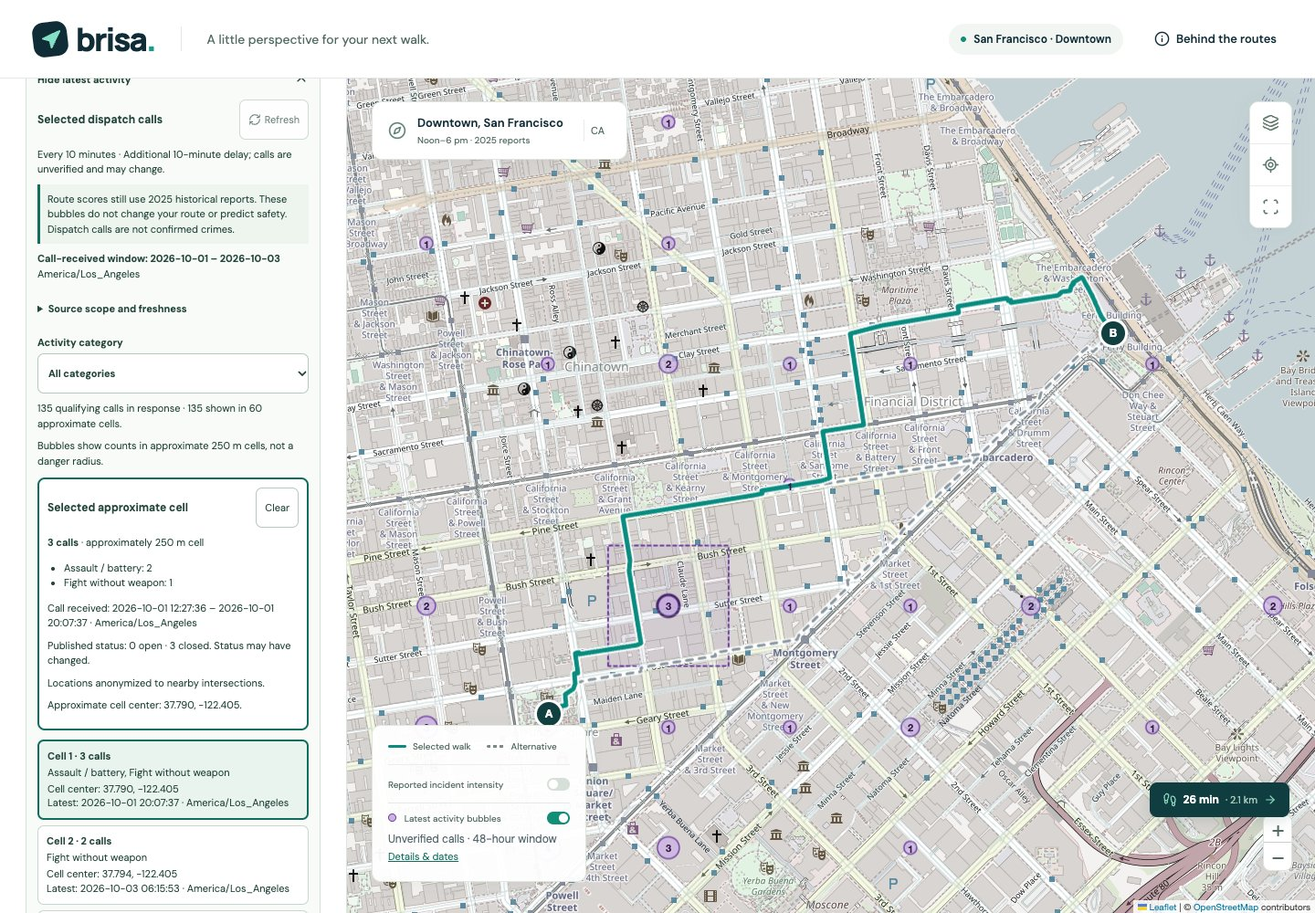
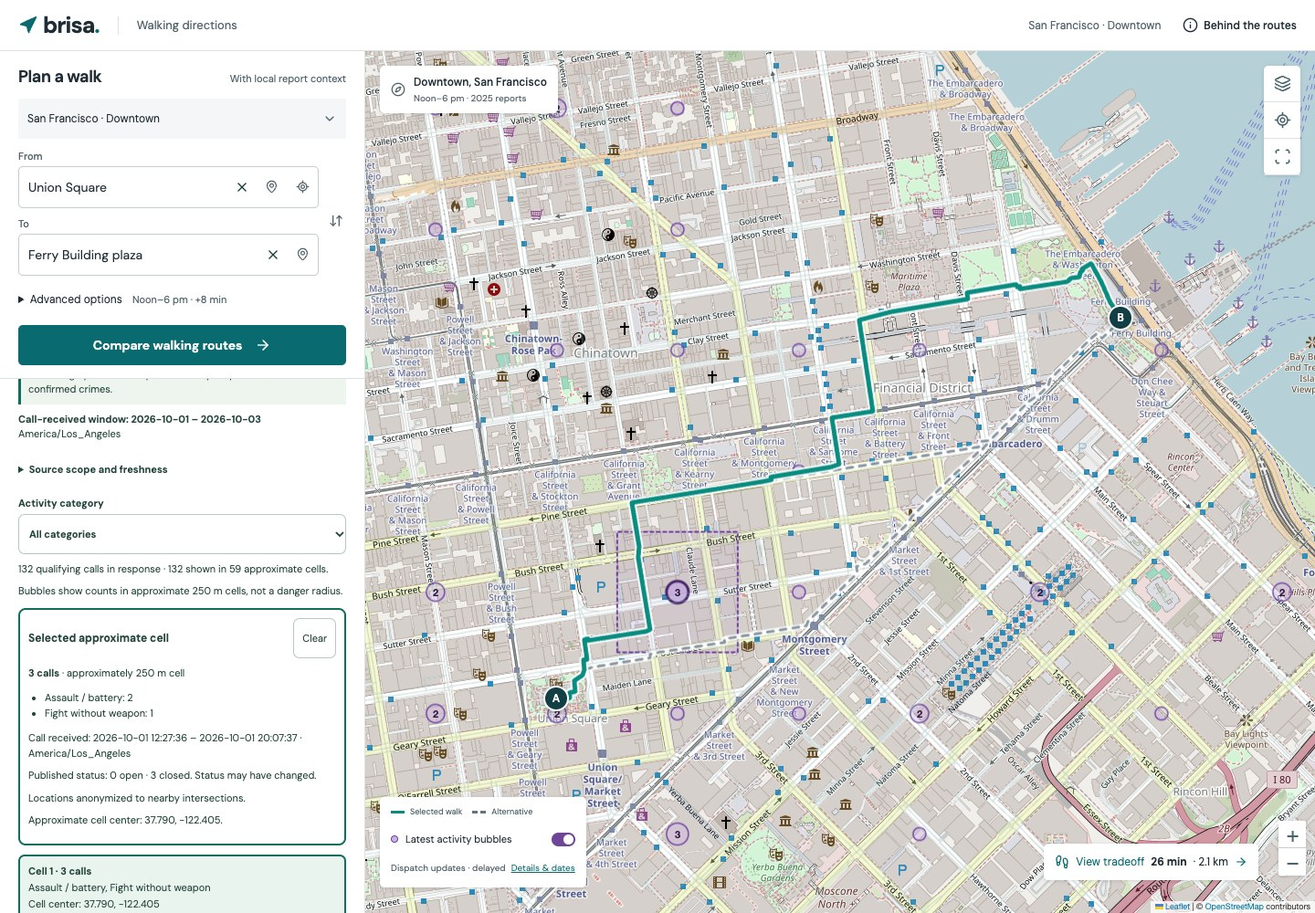
Refresh navigation council findings and hackathon demo captures

diff --git a/docs/DEMO.md b/docs/DEMO.md
@@ -7,21 +7,21 @@ npm ci
 npm run dev
 ```
 
-Open the printed local URL. NYC is the app default. For the LATAM demo, open `/?area=sao-paulo-centro`; `/?area=chicago-loop` and `/?area=sf-downtown` select the other packages. Prepare dependencies before the event. The committed graph, aggregate packages and fonts work from the local server; optional background map tiles use the network. With latest activity off (the default), the core demo makes no incident-source or Overpass requests. Enabling activity requires official-source network access.
+Open the printed local URL. NYC is the app default. For the LATAM demo, open `/?area=sao-paulo-centro`; `/?area=chicago-loop` and `/?area=sf-downtown` select the other packages. Prepare dependencies before the event. The committed graph, aggregate packages and fonts work from the local server; optional background map tiles use the network. Activity bubbles start ON and use official-source network access where a feed exists. Turn them OFF for a historical-only demo. Address autocomplete uses Photon; bundled place names and map selection remain available when it is unavailable.
 
 ## Two-minute working demo
 
-1. **0:00 — Start one real decision.** Open São Paulo and select **Try example walk** to restore Edifício Copan → Praça da Sé, noon–6 pm and an eight-minute budget. Introduce the team's LATAM motivation: comparing historical report context alongside walking time.
+1. **0:00 — Start one real decision.** Open São Paulo, expand **Advanced options** and select **Try example walk** to restore Edifício Copan → Praça da Sé, noon–6 pm and an eight-minute budget. Collapse Advanced options. Point out the editable From/To fields and introduce the team's LATAM motivation: comparing historical report context alongside walking time.
 2. **0:20 — Choose the tradeoff.** Select Fastest walk, then a distinct lower-exposure choice if available. Read the generated takeaway rather than doing mental arithmetic. The current example is about two extra minutes for a 15% lower historical report index (20.30 versus 22.53 minutes, 14.89% unrounded). Use actual displayed values after any model/data change. A distinct alternative is not promised for every request.
 3. **0:50 — Make the detour concrete.** Open **What changes from fastest?** Show the measured shared/different street sections and the named sections on each walk. Names describe where geometry differs, not why incidents occurred or whether a street is accessible, well lit or safe. Different sections can have the same street name.
 4. **1:20 — Make the choice portable.** Select **Share trip**, show the endpoint-coordinate disclosure and generated link. Explain that opening it recalculates the request; GPX preserves selected geometry. Keep copying, reopening and downloading for questions.
-5. **1:40 — State scope.** Show coverage and conclude: “São Paulo uses 2,466 eligible pedestrian cellphone theft/robbery reports with known times. Missing times introduce bias. This compares historical report indices, not personal safety or cities.” Leave the selected walk on screen.
+5. **1:40 — State scope.** Use the map’s **Show coverage boundary** control and conclude: “São Paulo uses 2,466 eligible pedestrian cellphone theft/robbery reports with known times. Missing times introduce bias. This compares historical report indices, not personal safety or cities.” Leave the selected walk on screen.
 
 ## Optional questions and demonstrations
 
-- **Does the budget matter?** Set the extra-time budget to zero and compare. Restore the example with Try example walk. Do not imply every budget returns three routes.
-- **Does time change the explanation?** Show Same walk, different windows: four historical scores for the exact selected geometry. These are not current predictions.
-- **Can I choose another street?** Use the bundled street search. It needs no external geocoder; results are limited to named sections in the loaded graph, not street addresses or entrances.
+- **Does the budget matter?** Expand **Advanced options**, set the extra-time budget to zero and compare. Restore the example with Try example walk. Do not imply every budget returns three routes.
+- **Does time change the explanation?** Expand **Route details**, then show Same walk, different windows: four historical scores for the exact selected geometry. These are not current predictions.
+- **Can I choose another street?** Type in **From** or **To**. Suggestions combine bundled street/landmark names with Photon addresses and places, bounded to the selected area. Select a result before comparing; map pins and explicit device location are alternatives. Places outside loaded coverage cannot be routed.
 - **Can I take it with me?** Open the shared link or download GPX/summary. Street sequences are planning references, not verified turn instructions.
 - **What has updated recently?** Use the separate SF segment below, with network access. It does not modify the historical routing model.
 
@@ -31,7 +31,7 @@ Actual app captures are available for the presentation: [desktop comparison](scr
 
 ## Optional 30-second activity segment
 
-After the Brazil walkthrough, switch to San Francisco and enable latest activity. Show an aggregate bubble and the source dates. Say: “These are selected, unverified police dispatch calls received during the last 48 hours. The source updates every ten minutes with an additional ten-minute delay. They do not change the historical route scores.” Do not promise a fixed count or current street conditions. If loading fails, show the explicit error/stale state and continue the historical demo; there is no fixture fallback.
+After the Brazil walkthrough, switch to San Francisco. Activity is already ON unless you turned it off; the OFF choice persists across city changes. Open **Activity details** or tap a bubble. Show an aggregate bubble and the source dates. Say: “These are selected, unverified police dispatch calls received during the last 48 hours. The source updates every ten minutes with an additional ten-minute delay; Brisa checks for newly published batches every minute while visible. They do not change the historical route scores.” Do not promise a fixed count or current street conditions. If loading fails, show the explicit error/stale state and continue the historical demo; there is no fixture fallback.
 
 ![San Francisco dispatch-call bubbles with a selected approximate cell and source context](screenshots/latest-activity.jpg)
 
@@ -59,7 +59,7 @@ São Paulo's MASP landmark is named **MASP · Paulista sidewalk**. Its reviewed 
 ## If the demo network fails
 
 - Keep the local Vite server running and reload the local app. Bundled streets and routes remain available when background tile requests fail; the app shows a map-unavailable explanation.
-- If dependencies are already installed, `npm run build` followed by `npm run preview` serves the production bundle locally. Open the URL that command prints. The historical route demo needs no incident API or Google key; leave latest activity off without network access.
+- If dependencies are already installed, `npm run build` followed by `npm run preview` serves the production bundle locally. Open the URL that command prints. The historical route demo needs no incident API or Google key; turn latest activity OFF without network access and use bundled places or map selection.
 - Do not refresh source data at the event. The committed packages are the demo inputs; ingestion is a separate operation.
 - If a package load fails, use Try again or switch coverage. Invalid shared links show a notice and fall back to default landmarks. Identical endpoints and points outside supported street coverage produce recoverable errors.
 - The app is not a service-worker offline install. A remote deployment must load its assets and selected package first; a prepared local server is the dependable network fallback.

diff --git a/README.md b/README.md
@@ -2,7 +2,9 @@
 
 A BigRedHacks navigation project: compare walking routes using historical reported incidents and an explicit limit on added walking time. Inspired by our LATAM team's experiences, Brisa uses a shared routing engine with independently validated city data packages.
 
-![São Paulo walking route comparison: fastest, balanced and lower historical exposure choices](docs/screenshots/sao-paulo-desktop.jpg)
+![Brisa directions with searchable endpoints, walking alternatives and published activity bubbles](docs/screenshots/navigation-desktop.jpg)
+
+[See the mobile layout](docs/screenshots/navigation-mobile.jpg).
 
 **Included coverage:** four bounded packages. Coverage is regional; a city label does not imply every neighborhood is supported.
 
@@ -54,13 +56,15 @@ Available public data still needs a usable occurrence time, location, incident d
 
 ## What the planner does
 
-- Selects a city/coverage package, landmarks or map endpoints, a local historical time window, and an extra-time budget.
-- Searches bundled street/landmark names, supports keyboard map-center selection, and restores a ready-to-compare trip with **Try example walk**.
+- Starts with searchable **From** and **To** fields for addresses, places and streets inside the selected coverage area. Map selection and explicit **Use my location** are also available.
+- Combines bundled local search with bounded Photon address results. Arbitrary locations still need to be inside the loaded walking graph; this is not global routing.
+- Keeps historical time windows, detour budget, example reset and coverage/source information in **Advanced options**.
+- Presents controls, map and route choices in that order on mobile, with keyboard-accessible search and map selection.
 - Computes routes along real OpenStreetMap walking geometry and integrates the report index along each displayed path.
 - Shows distinct fastest/lower-index candidates that satisfy the exact budget, with time and distance alongside exposure comparisons.
 - Summarizes the selected route's tradeoff and explains which actual street sections differ from the fastest route.
 - Displays aggregate report context, package-specific dates, timezone, eligibility, sources and route explanations.
-- Offers an optional latest-activity bubble layer: unverified SF dispatch calls and delayed published NYC/Chicago reports, with source windows and freshness visible. It does not change historical route scores; São Paulo has no verified recent feed.
+- Shows a default-on, automatically refreshed activity bubble layer with an OFF option: unverified SF dispatch calls and delayed published NYC/Chicago reports, with source windows and freshness visible. It does not change historical route scores; São Paulo has no verified recent feed.
 - Shows contiguous street segments and four historical-window scores for the exact selected path.
 - Shares a reproducible request only after an explicit action. Links disclose both endpoint coordinates and recalculate on open; they do not guarantee permanently identical routes. Ordinary control changes do not write coordinates into the address bar.
 - Exports the selected geometry as GPX or its street sequence as text, with historical model/source context. These are planning references, not verified navigation instructions.
@@ -91,6 +95,8 @@ flowchart LR
 | Demo walkthrough | [docs/DEMO.md](docs/DEMO.md) | Two-minute demo and local fallback |
 | Pitch kit | [docs/PITCH.md](docs/PITCH.md) | Spoken pitch and factual submission draft |
 | Manual deployment | [docs/DEPLOY.md](docs/DEPLOY.md) | Publication instructions; not a claim of a live deployment |
+| Address search | [docs/PLACE_SEARCH.md](docs/PLACE_SEARCH.md) | Bounded geocoding, local fallback, provider configuration and query disclosure |
+| Navigation refinement | [docs/NAVIGATION_REFINEMENT.md](docs/NAVIGATION_REFINEMENT.md) | User-perspective reviews and the simpler mobile/desktop flow |
 | Latest activity | [docs/LIVE_ACTIVITY.md](docs/LIVE_ACTIVITY.md), [docs/RECENT_SOURCES.md](docs/RECENT_SOURCES.md) | Optional feeds, delays, bubble semantics and failure behavior |
 | Source methodology | [docs/DATA.md](docs/DATA.md) | Exact queries, filters, provenance and limitations |
 | City onboarding | [docs/ADDING_CITIES.md](docs/ADDING_CITIES.md) | Add a supported public API/CSV package |
@@ -106,11 +112,11 @@ A new city is a new data package, not a new application. Larger regional coverag
 
 ## Refresh and deployment
 
-With latest activity off (the default), committed packages make route demos independent of incident-source and Overpass APIs. Enabling latest activity requires network access to official feeds; failures never substitute fixture data. Historical-package refresh is an explicit build-time operation. Cache identities include source/query/configuration; failed downloads preserve the last valid cache. Historical raw case records stay in ignored local caches and are never served by the app. The optional activity layer fetches minimal official records transiently in the browser and displays aggregate bubbles.
+Committed packages make historical routing independent of incident-source and Overpass APIs. Latest activity starts ON and requires official-feed network access; switch it OFF for a network-independent historical demo. Address search contacts Photon while typing, with local places and map selection available as fallbacks. Feed failures never substitute fixture data. Historical-package refresh is an explicit build-time operation. Cache identities include source/query/configuration; failed downloads preserve the last valid cache. Historical raw case records stay in ignored local caches and are never served by the app. The optional activity layer fetches minimal official records transiently in the browser and displays aggregate bubbles.
 
 After changing data, run Python validation, `npm test`, and `npm run build`. Deploy the resulting `dist/` as one release so the catalog and its data packages stay consistent. Root hosting is the default; [GitHub Pages instructions](docs/DEPLOY.md) cover project paths through `BASE_PATH`. GitHub Actions checks packages, algorithms, workers, production build and browser flows, including automated accessibility checks.
 
-All `VITE_` values are public browser configuration. `.env.example` documents the optional tile URL; never put private credentials there. Follow the selected tile provider's attribution and usage rules. There is no bulk tile downloader or service worker.
+All `VITE_` values are public browser configuration. `.env.example` documents optional tile and Photon-compatible geocoder URLs; never put private credentials there. Follow the selected tile provider's attribution and usage rules. There is no bulk tile downloader or service worker.
 
 ## Attribution
 

diff --git a/docs/DEPLOY.md b/docs/DEPLOY.md
@@ -14,7 +14,7 @@ BASE_PATH=/BigRedHacks/ npm run build
 BASE_PATH=/BigRedHacks/ npm run preview -- --port 4173
 ```
 
-Open `http://127.0.0.1:4173/BigRedHacks/`. Confirm all four cities load, a route comparison completes through the worker, the brand/home link stays within `/BigRedHacks/`, and shared links reload the selected trip under that path. Check the favicon and browser network panel: scripts, worker, catalog and city datasets should have no 404s. Exercise downloads and the mobile layout. Enable latest activity in SF, NYC and Chicago: verify official API requests pass CORS, bubbles load, and source dates/window labels remain visible. São Paulo should explain that no verified recent feed is available. Disable networking to confirm an explicit unavailable/stale state without fixture substitution; historical routing should remain separate. The existing end-to-end suite uses the default root development server; subpath production validation is a separate check.
+Open `http://127.0.0.1:4173/BigRedHacks/`. Confirm all four cities load, a route comparison completes through the worker, the brand/home link stays within `/BigRedHacks/`, and shared links reload the selected trip under that path. Check the favicon and browser network panel: scripts, worker, catalog and city datasets should have no 404s. Exercise downloads and the mobile layout. Check default-on latest activity in SF, NYC and Chicago: verify official API requests pass CORS, bubbles load, and source dates/window labels remain visible. São Paulo should explain that no verified recent feed is available. Disable networking to confirm an explicit unavailable/stale state without fixture substitution; historical routing should remain separate. The existing end-to-end suite uses the default root development server; subpath production validation is a separate check.
 
 `BASE_PATH` is read by `vite.config.ts` at build/preview startup. Its default is `/`, preserving ordinary root hosting. Use a leading and trailing slash for a subdirectory, such as `/BigRedHacks/`. Vite rewrites bundled assets and worker URLs; runtime data loaders prepend Vite's `import.meta.env.BASE_URL` to the validated catalog/package paths. The packaged catalog stays host-independent. Rebuild with the appropriate base when moving to another host. Run `npm run build` without `BASE_PATH` to restore a root-hosted local build.
 
@@ -31,7 +31,7 @@ After publication is authorized and local/CI checks pass:
 1. Commit and push the reviewed source, aggregate packages and workflow together.
 2. Open **Actions → Publish Brisa to GitHub Pages → Run workflow** and select the approved branch.
 3. The build job installs locked dependencies, runs TypeScript/unit and offline data tests, derives the base path from the configured Pages site, builds the complete `dist/` directory, then runs the desktop/mobile browser suite before uploading it as one Pages artifact.
-4. The deployment job publishes that artifact. Open the actual URL reported by its `github-pages` environment, and repeat the city-switch, route, worker and shared-link checks on HTTPS. Enable latest activity and verify official-feed CORS and visible source freshness on the deployed origin.
+4. The deployment job publishes that artifact. Open the actual URL reported by its `github-pages` environment, and repeat the city-switch, route, worker and shared-link checks on HTTPS. Verify the default-on activity layer, official-feed CORS and visible source freshness on the deployed origin.
 
 The workflow uses current official actions: [checkout](https://github.com/actions/checkout), [setup-node](https://github.com/actions/setup-node), [configure-pages](https://github.com/actions/configure-pages/releases/tag/v6.0.0), [upload-pages-artifact](https://github.com/actions/upload-pages-artifact/releases/tag/v5.0.0), and [deploy-pages](https://github.com/actions/deploy-pages/releases/tag/v5.0.1). It has no automatic deployment trigger. A failed build never reaches the deploy job; concurrent deployments are serialized.
 
@@ -39,6 +39,6 @@ All code, catalog and city packages ship together. Do not update a deployed cata
 
 ## Operational notes
 
-GitHub Pages serves static files; planning runs in the browser's worker. Latest activity is off by default and requires official-feed network access when enabled. SF dispatch updates every ten minutes with an additional ten-minute delay over a 48-hour window; NYC is quarterly and Chicago daily with at least seven days of omitted recent incidents. NYC/Chicago display explicit latest-published 30-day windows. These bubbles do not change historical route scores. See [LIVE_ACTIVITY.md](LIVE_ACTIVITY.md) and [RECENT_SOURCES.md](RECENT_SOURCES.md). External map tiles still require network access and obey the configured provider's availability and terms. If tiles fail, bundled streets and route geometry remain available. A fresh visit still needs to download the app and selected package, so this is not an offline-installable application.
+GitHub Pages serves static files; planning runs in the browser's worker. Latest activity starts ON and requires official-feed network access; users can switch it OFF. Brisa checks SF every minute, Chicago hourly and NYC every six hours while visible. Typed address searches use the configured Photon-compatible endpoint (the public Photon demo by default); local place search works without it. SF dispatch updates every ten minutes with an additional ten-minute delay over a 48-hour window; NYC is quarterly and Chicago daily with at least seven days of omitted recent incidents. NYC/Chicago display explicit latest-published 30-day windows. These bubbles do not change historical route scores. See [LIVE_ACTIVITY.md](LIVE_ACTIVITY.md) and [RECENT_SOURCES.md](RECENT_SOURCES.md). External map tiles still require network access and obey the configured provider's availability and terms. If tiles fail, bundled streets and route geometry remain available. A fresh visit still needs to download the app and selected package, so this is not an offline-installable application.
 
 If Pages reports a missing site, complete the one-time settings step first. If deployment is rejected, inspect the environment's branch/protection rules. If assets request `/assets/` or `/data/` instead of `/BigRedHacks/...`, rebuild with the correct base; do not patch generated output manually. To roll back, manually run this workflow on a reviewed branch containing the previously validated source and matching datasets, subject to the same environment rules.

diff --git a/docs/LIVE_ACTIVITY.md b/docs/LIVE_ACTIVITY.md
@@ -4,13 +4,13 @@ The app's historical route model and its latest-activity overlay answer differen
 
 ## Council and adversarial review
 
-The source researcher verified official metadata and bounded API responses. The implementation reviewer evaluated public API access, cancellation, limits and static hosting. The user-side reviewer challenged misleading locations, freshness, accessibility and route implications. Their shared recommendation is an opt-in, source-specific layer with fixed-area bubbles and explicit dates.
+The source researcher verified official metadata and bounded API responses. The implementation reviewer evaluated public API access, cancellation, limits and static hosting. The user-side reviewer challenged misleading locations, freshness, accessibility and route implications. Following the requested default-on behavior, the layer is enabled on arrival with an explicit OFF control. The OFF preference persists across city switches for the session. The design uses a source-specific layer with fixed-area bubbles and explicit dates.
 
 | Option | Benefit | Problem | Decision |
 | --- | --- | --- | --- |
 | Individual incident pins | Easy to inspect | Publisher locations are approximate; pins imply exact events and can overexpose locations | Do not use |
 | Screen-space clusters | Reduces clutter | Group geography and counts change with zoom | Possible later at larger scale |
-| Fixed 250 m aggregate bubbles | Stable geography, visible counts, matches existing grid | Nearby circles can overlap | Use counts, bounded square-root radius, selected cell outline and accessible list |
+| Fixed 250 m aggregate bubbles | Stable geography, visible counts, matches existing grid | Nearby circles can overlap | Use counts, bounded square-root radius capped to 42% of the cell’s pixel span (3 px minimum), selected cell outline and accessible list |
 | Time-fading circles | Visually emphasizes recency | Fading can imply that danger has passed | Defer; show actual dates |
 | Recent events directly reweight routes | Appealing immediate response | Calls are unverified; source delays and units differ; no calibrated model | Defer until evaluated |
 
@@ -29,6 +29,8 @@ Bubble count is a count of qualifying source records/calls, not victims, severit
 
 Three clocks remain distinct: event occurrence or call receipt in the source's timezone; publisher update time when available; and the app's last successful check. Failed refreshes preserve the last successful data with a visible error. An unavailable or invalid response must not become a zero-count success.
 
-The prototype makes bounded anonymous requests directly to allowlisted official APIs after the user enables the layer. It uses no location tracking, private API keys or persistent report storage. Minimal source fields are normalized in memory, then aggregated; addresses, people and dispatch free-text notes are not requested. Requests use the coverage boundary, never trip endpoints. Disabling the layer or switching cities cancels pending requests. Refreshing pauses when the page is hidden; rapid manual requests are throttled.
+The prototype makes bounded anonymous requests directly to allowlisted official APIs while the default-on layer is enabled and the page is visible. It uses no location tracking, private API keys or persistent report storage. Minimal source fields are normalized in memory, then aggregated; addresses, people and dispatch free-text notes are not requested. Requests use the coverage boundary, never trip endpoints. Disabling the layer or switching cities cancels pending requests. Hidden pages cancel in-flight requests and pause automatic checks. Returning to a visible page resumes deferred or overdue checks. SF checks for publications every minute, Chicago hourly, and NYC every six hours; these intervals do not remove source publication delays. Manual requests have a 30-second cooldown. Failed requests retry after one minute while visible and preserve the last good feed. No socket or instant event delivery is claimed.
 
 For larger traffic, use a scheduled service to fetch and validate each source once, publish only aggregate snapshots with freshness metadata, and let clients poll the same-origin manifest. The current contracts isolate that future transport change from the map and routing engine.
+
+Rendering updates on zoom: circle radius is capped to the represented cell’s screen size, with lighter unselected fill; numeric labels hide below a 9 px radius. The underlying 250 m cells, counts, category totals and accessible list do not change with zoom. At extreme zoom-out the 3 px minimum remains a visible interaction target; the outline and detail card disclose the actual cell.

diff --git a/docs/PITCH.md b/docs/PITCH.md
@@ -4,7 +4,7 @@
 
 **0:00–0:20 — Why.** “Our LATAM team's experiences inspired a question: what if a walking planner made local context visible alongside arrival time? Brisa compares walks using historical reported incidents and lets you decide how much extra walking time to allow.”
 
-**0:20–0:50 — Show one decision.** Open `/?area=sao-paulo-centro` and select **Try example walk**. Select a distinct lower-exposure route if available. Read its generated takeaway: the current example offers about two extra minutes for a 15% lower historical report index. “These lines follow real OpenStreetMap streets. Every displayed choice respects the extra-time budget.” Use actual returned values, not a memorized promise.
+**0:20–0:50 — Show one decision.** Open `/?area=sao-paulo-centro`, expand **Advanced options**, select **Try example walk**, then collapse the options. Select a distinct lower-exposure route if available. Read its generated takeaway: the current example offers about two extra minutes for a 15% lower historical report index. “These lines follow real OpenStreetMap streets. Every displayed choice respects the extra-time budget.” Use actual returned values, not a memorized promise.
 
 **0:50–1:20 — Show what changed.** Open **What changes from fastest?** “Here are the street sections shared by the walks, and the sections that differ. We explain the actual geometry, not an invented claim about why a street is safer.” Point to one named section and the highlighted path.
 
@@ -22,9 +22,9 @@ Our LATAM team's experiences made us interested in the local knowledge people us
 
 ### What it does
 
-Brisa compares walking routes inside bounded packages for Central Manhattan, Chicago's Loop, downtown San Francisco and São Paulo's Paulista–Centro area in Brazil. Choose endpoints, a historical local-time window and an extra-time budget. Select a route to inspect its geometry, contiguous street sequence and exposure across four windows on the same path. Explicit share links reproduce the request; GPX and text downloads preserve the selected walk and its context.
+Brisa compares walking routes inside bounded packages for Central Manhattan, Chicago's Loop, downtown San Francisco and São Paulo's Paulista–Centro area in Brazil. Type addresses, places or streets in From/To and select a suggestion; local map references and explicit device location are also available. Historical time windows and the extra-time budget live in Advanced options. Select a route to inspect its geometry, contiguous street sequence and exposure across four windows on the same path. Explicit share links reproduce the request; GPX and text downloads preserve the selected walk and its context.
 
-An optional latest-activity layer adds aggregate bubbles without changing historical route scores. SF uses selected unverified dispatch calls from the past 48 hours, refreshed by the source every ten minutes with an additional ten-minute delay. NYC and Chicago show 30-day windows ending on their latest published occurrence dates: NYC releases quarterly; Chicago updates daily and omits at least the latest seven days. São Paulo has no verified recent feed. Activity requires network access and has explicit failure states, not fixture fallback.
+A default-on activity layer with an OFF option adds automatically refreshed aggregate bubbles without changing historical route scores. SF uses selected unverified dispatch calls from the past 48 hours, refreshed by the source every ten minutes with an additional ten-minute delay. NYC and Chicago show 30-day windows ending on their latest published occurrence dates: NYC releases quarterly; Chicago updates daily and omits at least the latest seven days. São Paulo has no verified recent feed. Activity requires network access and has explicit failure states, not fixture fallback.
 
 ### How we built it
 
@@ -44,7 +44,7 @@ Audit walking access with local users; test category weights and smoothing sensi
 
 ### Built with
 
-React, TypeScript, Vite, Leaflet, Web Workers, Python, OpenStreetMap, NYC Open Data, Chicago Data Portal, DataSF, SSP-SP, Vitest and Playwright.
+React, TypeScript, Vite, Leaflet, Web Workers, Python, OpenStreetMap, NYC Open Data, Chicago Data Portal, DataSF, SSP-SP, Photon, Vitest and Playwright.
 
 ## Submission notes
 

diff --git a/docs/NAVIGATION_REFINEMENT.md b/docs/NAVIGATION_REFINEMENT.md
@@ -1,0 +1,25 @@
+# Navigation refinement: October 3
+
+Independent agents reviewed the product as an impatient phone user, a keyboard user, an everyday NYC pedestrian, a LATAM traveler and a consumer interpreting recent reports. These are simulated user perspectives and browser observations, not field research.
+
+| Concern | Implemented response |
+| --- | --- |
+| Landmark dropdowns feel like a fixed demo | Editable From/To with bounded address/place search, local suggestions, map selection and explicit device location |
+| Settings dominate the main task | Collapsed Advanced options holds time window, detour budget, example reset and coverage/source details |
+| Decorative cards and slogans obscure the directions | Compact header, flat route list, restrained colors and a direct selected-route explanation |
+| Phone users must scroll before entering a trip | Mobile document order is controls → map → routes; desktop keeps directions beside the map |
+| Dense bubbles hide streets at smaller zooms | Circles shrink with the projected 250 m cell; counts appear when there is room, with the full count available in cell details |
+| New reports should appear automatically | Activity defaults ON, with foreground polling and a session-wide OFF preference |
+| A fresh check could be mistaken for a fresh event | Separate source windows, publisher delays and successful-check timestamps remain explicit |
+
+Address suggestions are selected explicitly. Typing alone cannot become a route endpoint. The adapter and UI cancel obsolete queries, reject results outside coverage, and preserve local search when the address provider fails. Device location requires a button press; denial, unsupported coverage and late callbacks cannot silently replace a different selected place.
+
+The app still routes inside four bounded walking packages. A globally found address does not create street or incident coverage. Source definitions differ; route indices do not rank cities or predict safety. Address points and nearby graph connections are not verified entrances.
+
+Activity is automatic, not instantaneous crime confirmation. San Francisco publishes selected unverified dispatch calls every ten minutes with additional delay; Brisa checks for releases every minute while visible. Chicago is checked hourly and NYC every six hours because their report publication is slower. Hidden tabs pause work and catch up when due; errors keep the last successful feed visibly marked. São Paulo has no verified recent feed. See [source details](RECENT_SOURCES.md).
+
+The adversarial browser pass caught endpoint markers intercepting map selection, a search popup reopening on programmatic focus return, a small city-selector touch target, visually hidden table text extending the page and a coverage button implicitly submitting the form. Each was corrected and checked. Search, location permission, stale-response rejection, map selection, source updates and exports have desktop/mobile regressions; public API and tile requests are replaced by explicit fixtures in automated tests. A publication-change regression confirms a newly released SF call updates the bubble count automatically while preserving the selected historical route.
+
+Manual production checks exercised all four city packages, actual Photon address selection (Empire State Building to Grand Central), shared-link restoration and worker/asset loading under `/BigRedHacks/`. Updated [desktop](screenshots/navigation-desktop.jpg) and [mobile](screenshots/navigation-mobile.jpg) captures show actual source responses, not fixture bubbles. The automated suite contains 163 TypeScript tests, 25 data checks and 90 desktop/mobile browser cases, including accessibility checks.
+
+For larger usage, configure a suitable Photon-compatible service using [PLACE_SEARCH.md](PLACE_SEARCH.md). Shared server-side feed caching would reduce duplicate requests across viewers; faster polling cannot remove publisher delays.

diff --git a/docs/RECENT_SOURCES.md b/docs/RECENT_SOURCES.md
@@ -19,6 +19,8 @@ NYC/Chicago first query the global maximum nonfuture occurrence date, then fetch
 
 Every row is revalidated for eligibility, timestamp, bounds, ID and coordinates after the bounded server query. Future and malformed rows are excluded. Responses at the 5,000-row cap fail closed instead of displaying incomplete counts. A 25-second abort timeout and caller cancellation apply across requests. Latest available occurrence is queried separately from the requested area; it is not proof of complete coverage. checkedAt is fetch-check UTC, not publication time. Optional publisherUpdatedAt comes from a valid nonfuture official HTTP Last-Modified header, expressed in UTC; it is absent when the header is unavailable or invalid. Conflicting duplicate IDs fail the entire refresh before eligibility filtering; exact duplicates collapse. Optional report, update and closure timestamps must be valid and nonfuture. Event labels distinguish “Call received” from “Occurred.”
 
-UI owns scheduling and cached results, with no polling faster than ten minutes. A failed refresh must retain an explicit stale/error state rather than imply current or empty coverage. Never silently substitute fixture data after a source failure. Both source lag and the displayed window should remain visible.
+The layer defaults ON, with a session-wide OFF preference. UI owns scheduling and memory-only cached results. Publication checks run every 60 seconds for SF, hourly for Chicago, and every six hours for NYC while visible. SF polling detects newly published batches; the publisher still updates every ten minutes with an additional ten-minute delay, so no instantaneous event delivery is promised. Automatic scheduling checks deadlines every 30 seconds. Returning to the page immediately starts a deferred or overdue check. Hidden pages abort in-flight requests; disabled layers and city changes also cancel work. Failed checks retry after one minute while visible; manual refresh has a 30-second cooldown. A failed refresh must retain an explicit stale/error state rather than imply current or empty coverage. Never silently substitute fixture data after a source failure. Both source lag and the displayed window should remain visible.
 
 CORS verification: All three implemented Socrata endpoints answered HTTP200 with Access-Control-Allow-Origin: * for a localhost Origin during read-only aggregate probes on October 3, 2026. Recheck browser access when deploying, since publisher behavior can change.
+
+Cadence rechecked against primary documentation on 2026-10-03: [NYPD incident-level publication schedule](https://home4.nyc.gov/site/nypd/stats/crime-statistics/citywide-crime-stats.page), [Chicago dataset description](https://data.cityofchicago.org/Public-Safety/Crimes-2001-to-Present/ijzp-q8t2), and [DataSF dispatch description](https://data.sf.gov/Public-Safety/Law-Enforcement-Dispatched-Calls-for-Service-Real-/gnap-fj3t). App check time is never substituted for publisher freshness.

diff --git a/docs/COUNCIL_REFINEMENT.md b/docs/COUNCIL_REFINEMENT.md
@@ -1,5 +1,7 @@
 # Product and engineering council: October 3
 
+This records the earlier review. The subsequent [navigation refinement](NAVIGATION_REFINEMENT.md) supersedes its local-only endpoint search and activity defaults with address search and default-on updates.
+
 Three independent agent reviews represented hackathon-judge, prospective-user and senior-engineering perspectives. The user review inspected desktop and mobile browser flows; these are usability observations, not a field user study.
 
 | Perspective | Finding | Agreed action |
